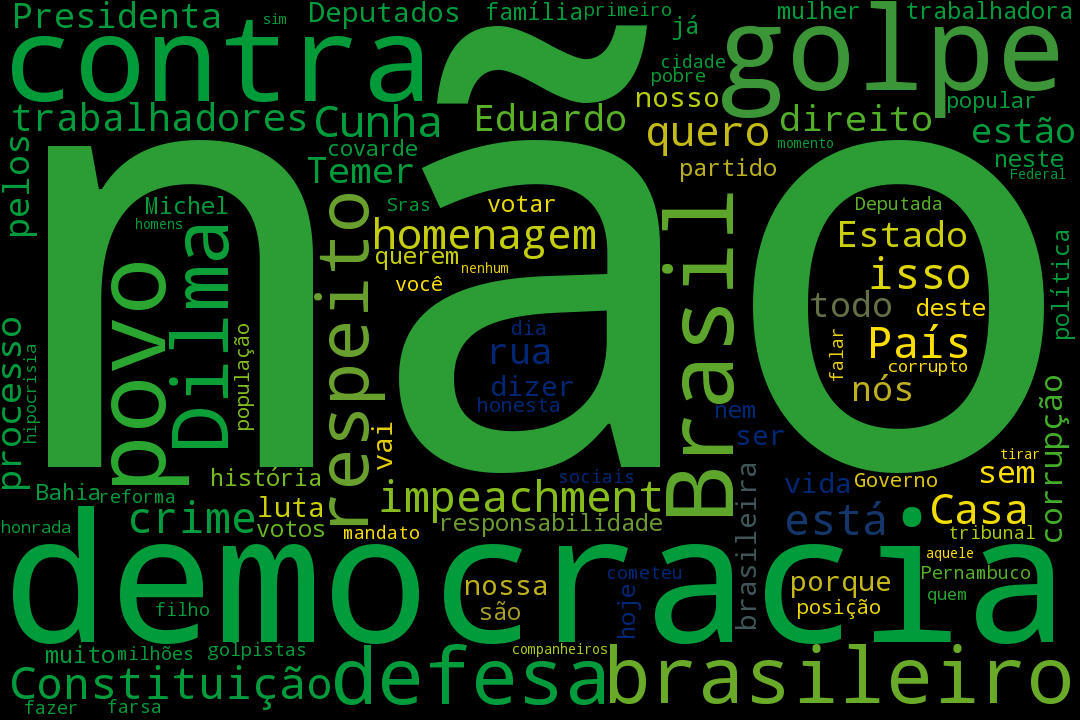
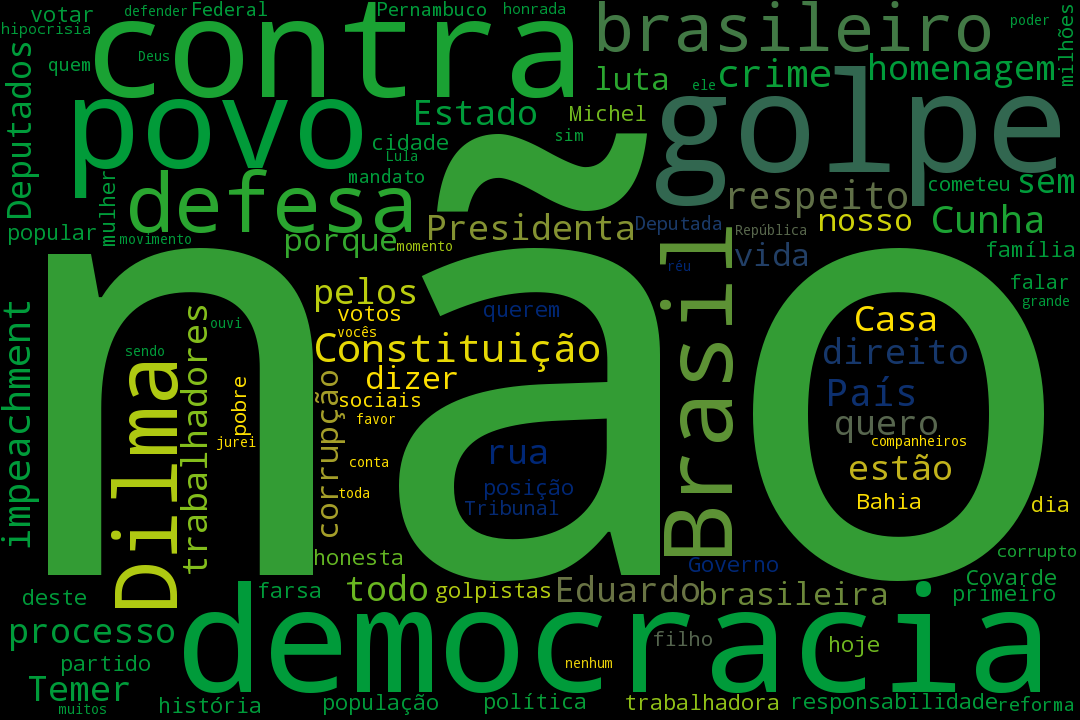
Removing more words and updating the clouds

diff --git a/main.py b/main.py
@@ -49,7 +49,9 @@ blacklist = (
     'meu', 'por', 'dos', 'eu', 'com', 'como', 'das', 'nome', 'as', 'sua',
     'esse', 'este', 'seu', 'nas', 'deu', 'esta', 'tem', 'também', 'sra',
     'pelas', 'nos', 'mais', 'nesta', 'foi', 'me', 'meus',
-    'há', 'aqui', 'ano', 'vou', 'ter')
+    'há', 'aqui', 'ano', 'vou', 'ter', 'tenho', 'sras', 'são',
+    'neste', 'nós', 'nem', 'ser', 'está', 'nossa', 'isso', 'já', 'muito',
+    'mim', 'fazer', 'aquele', 'às', 'você', 'digo', 'vai', 'estamos')
 word_cloud = WordCloud(width=1080, height=720,
                        stopwords=blacklist, color_func=brazil_colors,
                        max_words=100)
